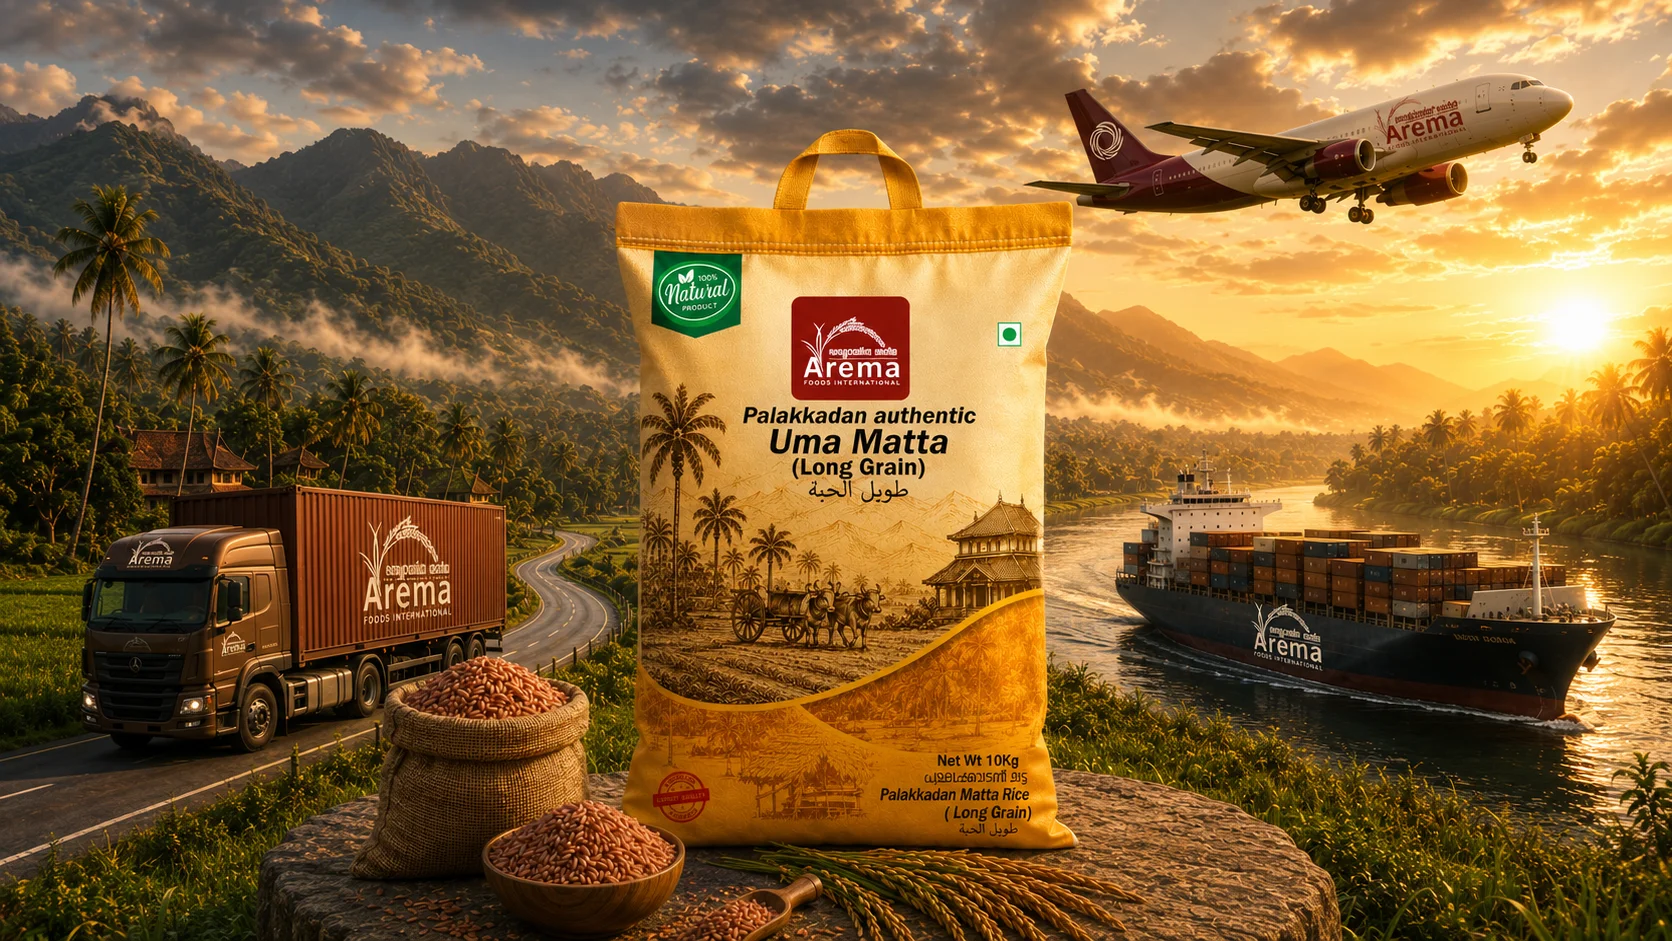
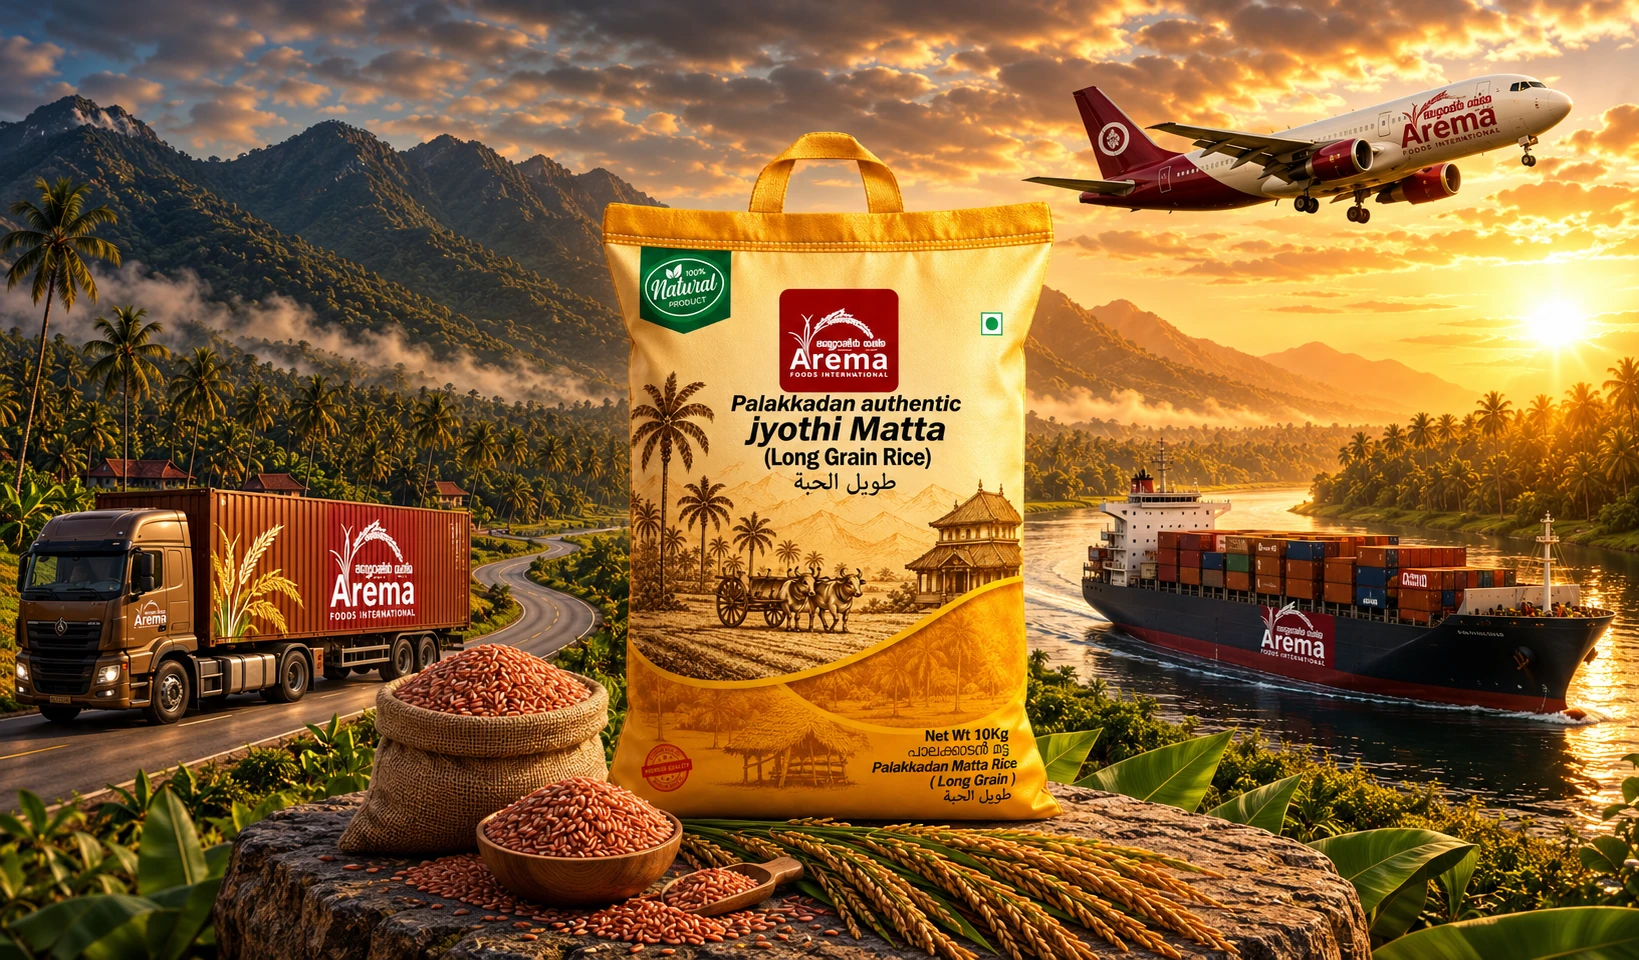
style: update global reach background to Arema Rice Journey Golden Hour

diff --git a/src/components/sections/home/GlobalReachSection.module.css b/src/components/sections/home/GlobalReachSection.module.css
@@ -5,7 +5,7 @@
   display: flex;
   align-items: center;
   justify-content: center;
-  background-image: url('/images/home-web-v3.webp');
+  background-image: url('/images/home-web-v4.webp');
   background-size: cover;
   background-position: center;
   background-repeat: no-repeat;
@@ -154,7 +154,7 @@
 /* ── RESPONSIVE ────────────────────────────────────── */
 @media (max-width: 1024px) {
   .section {
-    background-image: url('/images/home-mobile-v3.webp');
+    background-image: url('/images/home-mobile-v4.webp');
     background-position: center;
     padding-block: var(--space-8);
     min-height: auto;
